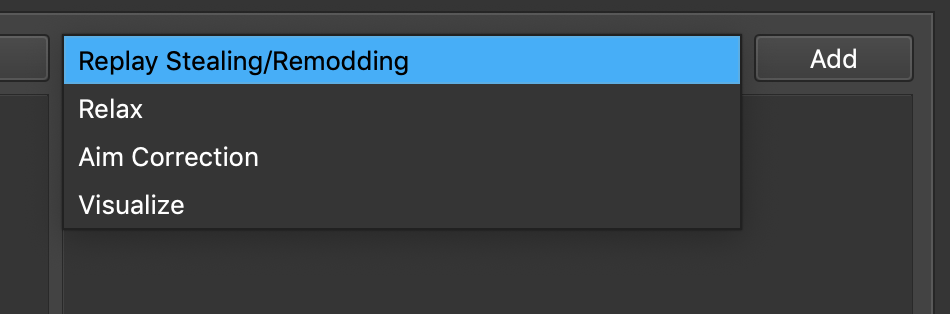
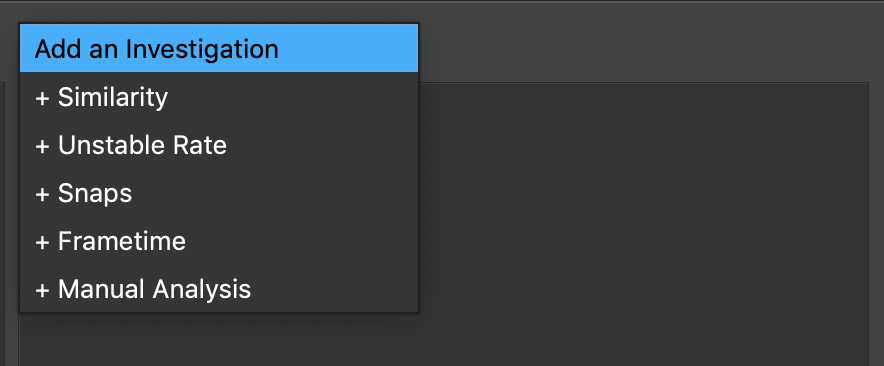
rewrite checks tutorial page

diff --git a/circleguard/wizard.py b/circleguard/wizard.py
@@ -279,22 +279,21 @@ class TutorialPageLoadableUsersAll(WizardPage):
 class TutorialPageChecks(WizardPage):
     def __init__(self):
         super().__init__()
-        self.setTitle("Tutorial (Checks)")
+        self.setTitle("Tutorial (Investigations)")
         label = WizardLabel("<p>Now that you can represent Replays with Loadables, you can start investigating them for cheats. Circleguard "
-                            "supports four different kinds of Checks.</p>")
+                            "supports multiple kinds of investigations.</p>")
         image = QLabel()
         image.setPixmap(QPixmap(resource_path("wizard/checks_dropdown.png")).scaledToWidth(500, Qt.SmoothTransformation))
-        label2 = WizardLabel("<p>Each of these should be self explanatory. If you want to check a Loadable for a certain cheat, just drag and "
-                "drop it onto the appropriate Check, then hit run.</p>"
-                "<p>Replay Stealing and Visualize are both different from the others. Replay Stealing has two areas for you to drag Loadables "
+        label2 = WizardLabel("<p>If you want to check a Loadable for a certain cheat, just drag and "
+                "drop it onto the appropriate Investigation, then hit run.</p>"
+                "<p>Similarity is slightly different from the others. This investigation has two areas for you to drag Loadables "
                 "onto - if only one of them has any Loadables, each replay will be compared against each other replay. eg, if you "
-                "give a Map with span=\"1-50\" to one area of a Replay Stealing Check, and nothing to the other area, it will compare "
-                "each replay in the top 50 of that map against each other replay in the top 50. However, if you drag a Map Replay to "
+                "give a Map with span=\"1-50\" to one area of a Similarity Check, and nothing to the other area, it will compare "
+                "each replay in the top 50 of that map against each other replay in the top 50.</p>"
+                "<p>However, if you drag a Map Replay to "
                 "the other area of the Check, it will compare just the Replay Map against each of the replays in the top 50. This "
                 "can be useful if you want to check if a specific user stole from a map, without comparing replays that don't involve "
-                "the player you suspect.</p>"
-                "<p>A Visualize Check doesn't perform any sort of analysis on the replays, but instead plays back the replays in a new window, "
-                "simulating osu! gameplay, including the beatmap. This is useful for manual inspection and frame-by-frame visualization.<p>")
+                "the player you suspect.</p>")
 
         layout = QVBoxLayout()
         layout.addWidget(label)
